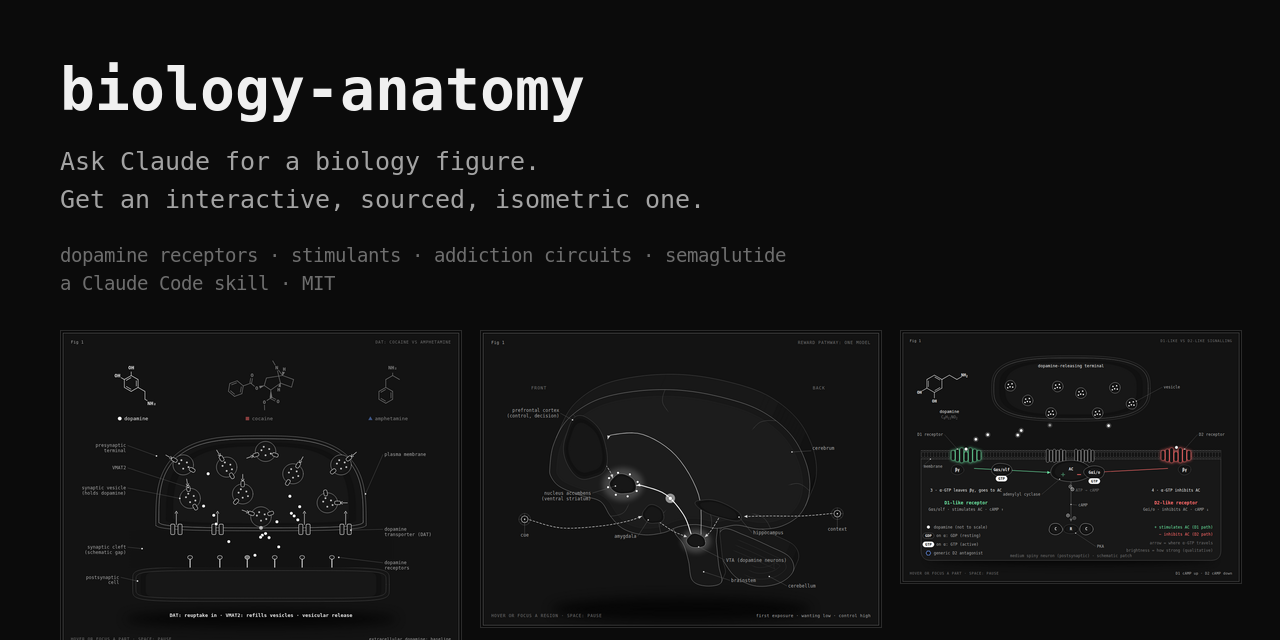
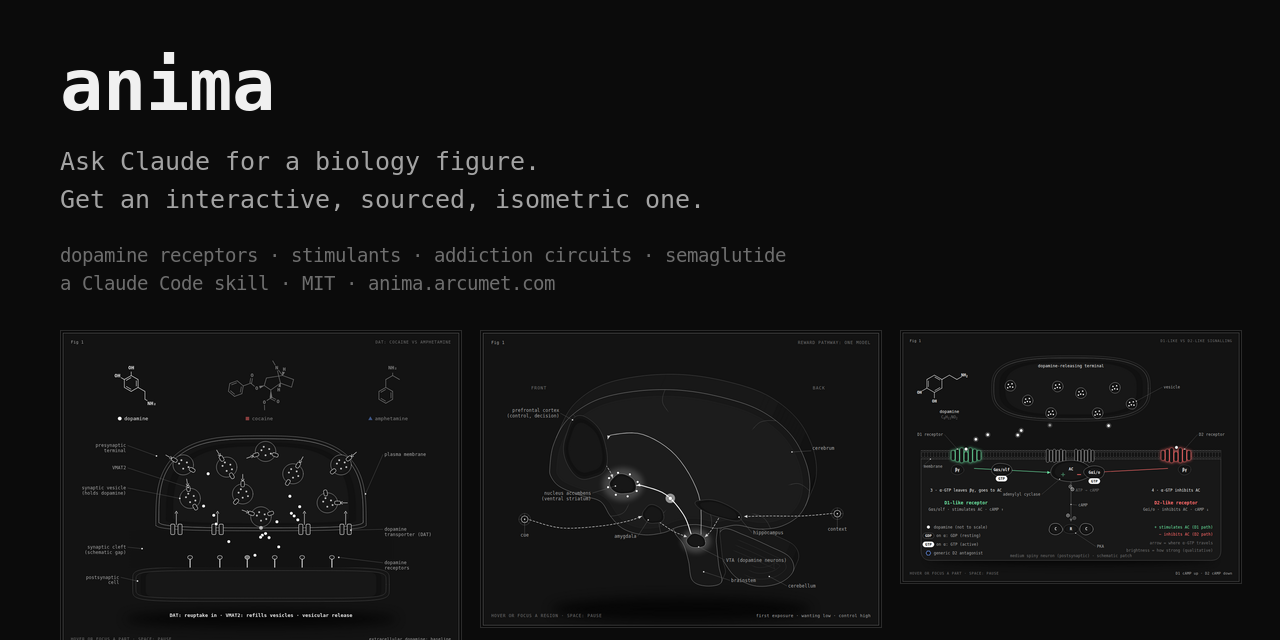
Rebrand to Anima and add the anima.arcumet.com landing domain
Rename the skill to anima, update the README, CONTRIBUTING, evals, issue template and landing page, add the Pages CNAME, and regenerate the social preview.

Changed region(s): [[0.0312, 0.0625, 0.4688, 0.1875], [0.2812, 0.4375, 0.4375, 0.4688]]

diff --git a/index.html b/index.html
@@ -3,11 +3,12 @@
 <head>
 <meta charset="utf-8">
 <meta name="viewport" content="width=device-width, initial-scale=1">
-<title>Biology Anatomy: interactive, sourced biology figures from Claude</title>
+<title>Anima: interactive, sourced biology figures from Claude</title>
 <meta name="description" content="A Claude Code skill that turns a biology idea into an interactive, sourced, isometric figure. Dopamine receptors, stimulants, addiction circuits, semaglutide.">
-<meta property="og:title" content="Biology Anatomy">
+<meta property="og:title" content="Anima">
+<meta property="og:url" content="https://anima.arcumet.com/">
 <meta property="og:description" content="Ask Claude for a biology figure. Get an interactive, sourced, isometric one.">
-<meta property="og:image" content="assets/social-preview.png">
+<meta property="og:image" content="https://anima.arcumet.com/assets/social-preview.png">
 <meta name="twitter:card" content="summary_large_image">
 <style>
 :root{--page:#0b0b0b;--card:#131313;--text:#a3a3a3;--strong:#f0f0f0;--muted:#6e6e6e;--line:#2a2a2a;--accent:#fff;--mono:ui-monospace,"SF Mono",Menlo,Consolas,monospace}
@@ -41,14 +42,14 @@ footer a{color:var(--text)}
 </head>
 <body>
 <main>
-  <h1>biology-anatomy</h1>
+  <h1>anima</h1>
   <p class="lede">Ask Claude for a biology figure. Get an interactive, sourced, isometric one.</p>
   <p class="sub">A Claude Code skill. Real structures, a mechanism you can toggle, and a citation for every number on screen.</p>
   <div class="cta">
-    <a href="https://github.com/Garinmckayl/biology-anatomy">View on GitHub</a>
+    <a href="https://github.com/Garinmckayl/anima">View on GitHub</a>
     <a href="examples/stimulants-dat/stimulants-dat.html">Open a live figure</a>
   </div>
-  <code class="install">npx skills add Garinmckayl/biology-anatomy -g -a claude-code</code>
+  <code class="install">npx skills add Garinmckayl/anima -g -a claude-code</code>
   <video src="assets/demo.mp4" poster="assets/thumbs/stimulants-dat.png" autoplay muted loop playsinline controls></video>
 
   <h2>Live figures</h2>
@@ -69,7 +70,7 @@ footer a{color:var(--text)}
     <li><strong>Mechanism only for drugs.</strong> No doses, routes, schedules or recommendations. Educational, not medical advice.</li>
   </ul>
 
-  <footer>MIT licensed. <a href="https://github.com/Garinmckayl/biology-anatomy">Source on GitHub</a>.</footer>
+  <footer>MIT licensed. <a href="https://github.com/Garinmckayl/anima">Source on GitHub</a>.</footer>
 </main>
 </body>
 </html>

diff --git a/examples/neuron/neuron-light.html b/examples/neuron/neuron-light.html
@@ -1,4 +1,4 @@
-<!doctype html><html lang="en"><head><meta charset="utf-8"><meta name="viewport" content="width=device-width, initial-scale=1"><title>A myelinated neuron | Biology Anatomy</title><style>
+<!doctype html><html lang="en"><head><meta charset="utf-8"><meta name="viewport" content="width=device-width, initial-scale=1"><title>A myelinated neuron | Anima</title><style>
 .iso{
   --anatomy-page:#0b0b0b;--anatomy-card:#131313;--anatomy-text:#a3a3a3;--anatomy-strong:#e6e6e6;--anatomy-muted:#6e6e6e;
   --anatomy-paper:#131313;--anatomy-face:#1b1b1b;--anatomy-top:#1c1c1c;

diff --git a/examples/neuron/neuron.html b/examples/neuron/neuron.html
@@ -1,4 +1,4 @@
-<!doctype html><html lang="en"><head><meta charset="utf-8"><meta name="viewport" content="width=device-width, initial-scale=1"><title>A myelinated neuron | Biology Anatomy</title><style>
+<!doctype html><html lang="en"><head><meta charset="utf-8"><meta name="viewport" content="width=device-width, initial-scale=1"><title>A myelinated neuron | Anima</title><style>
 .iso{
   --anatomy-page:#0b0b0b;--anatomy-card:#131313;--anatomy-text:#a3a3a3;--anatomy-strong:#e6e6e6;--anatomy-muted:#6e6e6e;
   --anatomy-paper:#131313;--anatomy-face:#1b1b1b;--anatomy-top:#1c1c1c;

diff --git a/README.md b/README.md
@@ -1,4 +1,4 @@
-# Biology Anatomy
+# Anima
 
 **Ask Claude for a biology figure. Get an interactive, sourced, isometric one.**
 
@@ -10,7 +10,7 @@ A [Claude Code](https://claude.com/claude-code) skill that turns "show me how co
 
 <p align="center">
   <a href="assets/demo.mp4">Watch the demo (MP4)</a> ·
-  <a href="https://garinmckayl.github.io/biology-anatomy/">Try every figure live</a>
+  <a href="https://anima.arcumet.com">Try every figure live</a>
 </p>
 
 ## Why it exists
@@ -26,7 +26,7 @@ Most science graphics are either static diagrams or confident-looking animations
 ## Install
 
 ```sh
-npx skills add Garinmckayl/biology-anatomy -g -a claude-code
+npx skills add Garinmckayl/anima -g -a claude-code
 ```
 
 Requires Claude Code and Node.js 20.10 or later. The drawing kit uses only Node built-ins and has zero runtime dependencies. Chrome or Chromium is needed only for the capture and verification scripts.
@@ -36,19 +36,19 @@ Requires Claude Code and Node.js 20.10 or later. The drawing kit uses only Node 
 In Claude Code:
 
 ```text
-/biology-anatomy show how cocaine and amphetamine act differently at the dopamine transporter, with a drug selector and sourced mechanisms; standalone HTML
+/anima show how cocaine and amphetamine act differently at the dopamine transporter, with a drug selector and sourced mechanisms; standalone HTML
 ```
 
 ```text
-/biology-anatomy visualize semaglutide acting on a pancreatic beta cell, with glucose-dependent insulin release, cited label numbers and an educational-use note
+/anima visualize semaglutide acting on a pancreatic beta cell, with glucose-dependent insulin release, cited label numbers and an educational-use note
 ```
 
 ```text
-/biology-anatomy show D1 and D2 receptor signalling in a striatal neuron, with the G-protein cycle and a receptor-antagonist toggle
+/anima show D1 and D2 receptor signalling in a striatal neuron, with the G-protein cycle and a receptor-antagonist toggle
 ```
 
 ```text
-/biology-anatomy make a mid-sagittal brain showing the mesolimbic pathway and one model of how it changes with repeated drug exposure; cite every claim
+/anima make a mid-sagittal brain showing the mesolimbic pathway and one model of how it changes with repeated drug exposure; cite every claim
 ```
 
 Name the biological subject, the mechanism to explain, the audience and the output format. The skill sizes the job first (Figure, Hero or Epic), collects sources before drawing, builds the page, then checks it the way a reviewer would: zoomed in, in both themes, at phone width.
@@ -102,4 +102,4 @@ If you or someone you know is struggling with substance use, a local health serv
 
 ## License
 
-MIT. Built on the MIT-licensed [Anatomy skill](https://github.com/wheresryan22/anatomy); the upstream copyright notice is retained in [LICENSE](LICENSE).
+MIT. See [LICENSE](LICENSE).

diff --git a/SKILL.md b/SKILL.md
@@ -1,9 +1,9 @@
 ---
-name: biology-anatomy
+name: anima
 description: Create crafted, accurate visualizations of anatomy, neurobiology, pharmacology, drugs, cells, and molecular biology. Show real biological structures and make their mechanisms visible, using literal anatomy or a clearly identified mechanical metaphor. Build interactive isometric SVG figures with sourced numbers, accessible motion, optional WebGL, a framed card and live readout. Use for biological explainers, educational illustrations, documentation and interactive figures.
 ---
 
-# Biology Anatomy
+# Anima
 
 This skill makes visual explanations of biological structure and function. Show the real structure accurately and make its mechanism visible. Use literal anatomy for structures such as neurons, hearts, cells and organs; use a clearly identified mechanical metaphor for processes when it improves understanding (for example, a receptor and ligand as lock and key, or an ion channel as a gated valve). Never let a metaphor imply that it is the literal biology.
 

diff --git a/CHANGELOG.md b/CHANGELOG.md
@@ -6,6 +6,8 @@ All notable changes to this project are recorded here. The format follows [Keep 
 
 ### Added
 
+- Renamed the project to Anima (skill `anima`, command `/anima`), with the landing page served from `anima.arcumet.com`.
+
 - Four pharmacology and neuroscience figures: `dopamine-receptors` (D1 and D2 signalling), `stimulants-dat` (cocaine and amphetamine at the dopamine transporter), `reward-addiction` (the mesolimbic pathway and a repeated-exposure model) and `semaglutide-glp1` (a GLP-1 receptor agonist on a pancreatic beta cell).
 - `estrogen-aggression`, which follows testosterone through aromatase to estrogen receptor α and states the weak human evidence plainly.
 - A `record` action in `scripts/drive.mjs` that writes evenly spaced frames, and `scripts/make-demo.mjs`, which records every figure and encodes `assets/demo.mp4` and `assets/demo.gif`.

diff --git a/CONTRIBUTING.md b/CONTRIBUTING.md
@@ -1,4 +1,4 @@
-# Contributing to Biology Anatomy
+# Contributing to Anima
 
 Thank you for helping. Anatomy is judged by how its figures look at 4× zoom, so most of this guide is about checking your work before anyone else does.
 
@@ -13,14 +13,14 @@ You need:
 - **Claude Code**, to try the skill itself.
 
 ```sh
-git clone https://github.com/Garinmckayl/biology-anatomy.git
-cd biology-anatomy
+git clone https://github.com/Garinmckayl/anima.git
+cd anima
 ```
 
 To use your working copy as the skill while you change it, link it into your personal skills folder (move any installed copy out of the way first):
 
 ```sh
-ln -s "$PWD" ~/.claude/skills/biology-anatomy
+ln -s "$PWD" ~/.claude/skills/anima
 ```
 
 ## Building the examples
